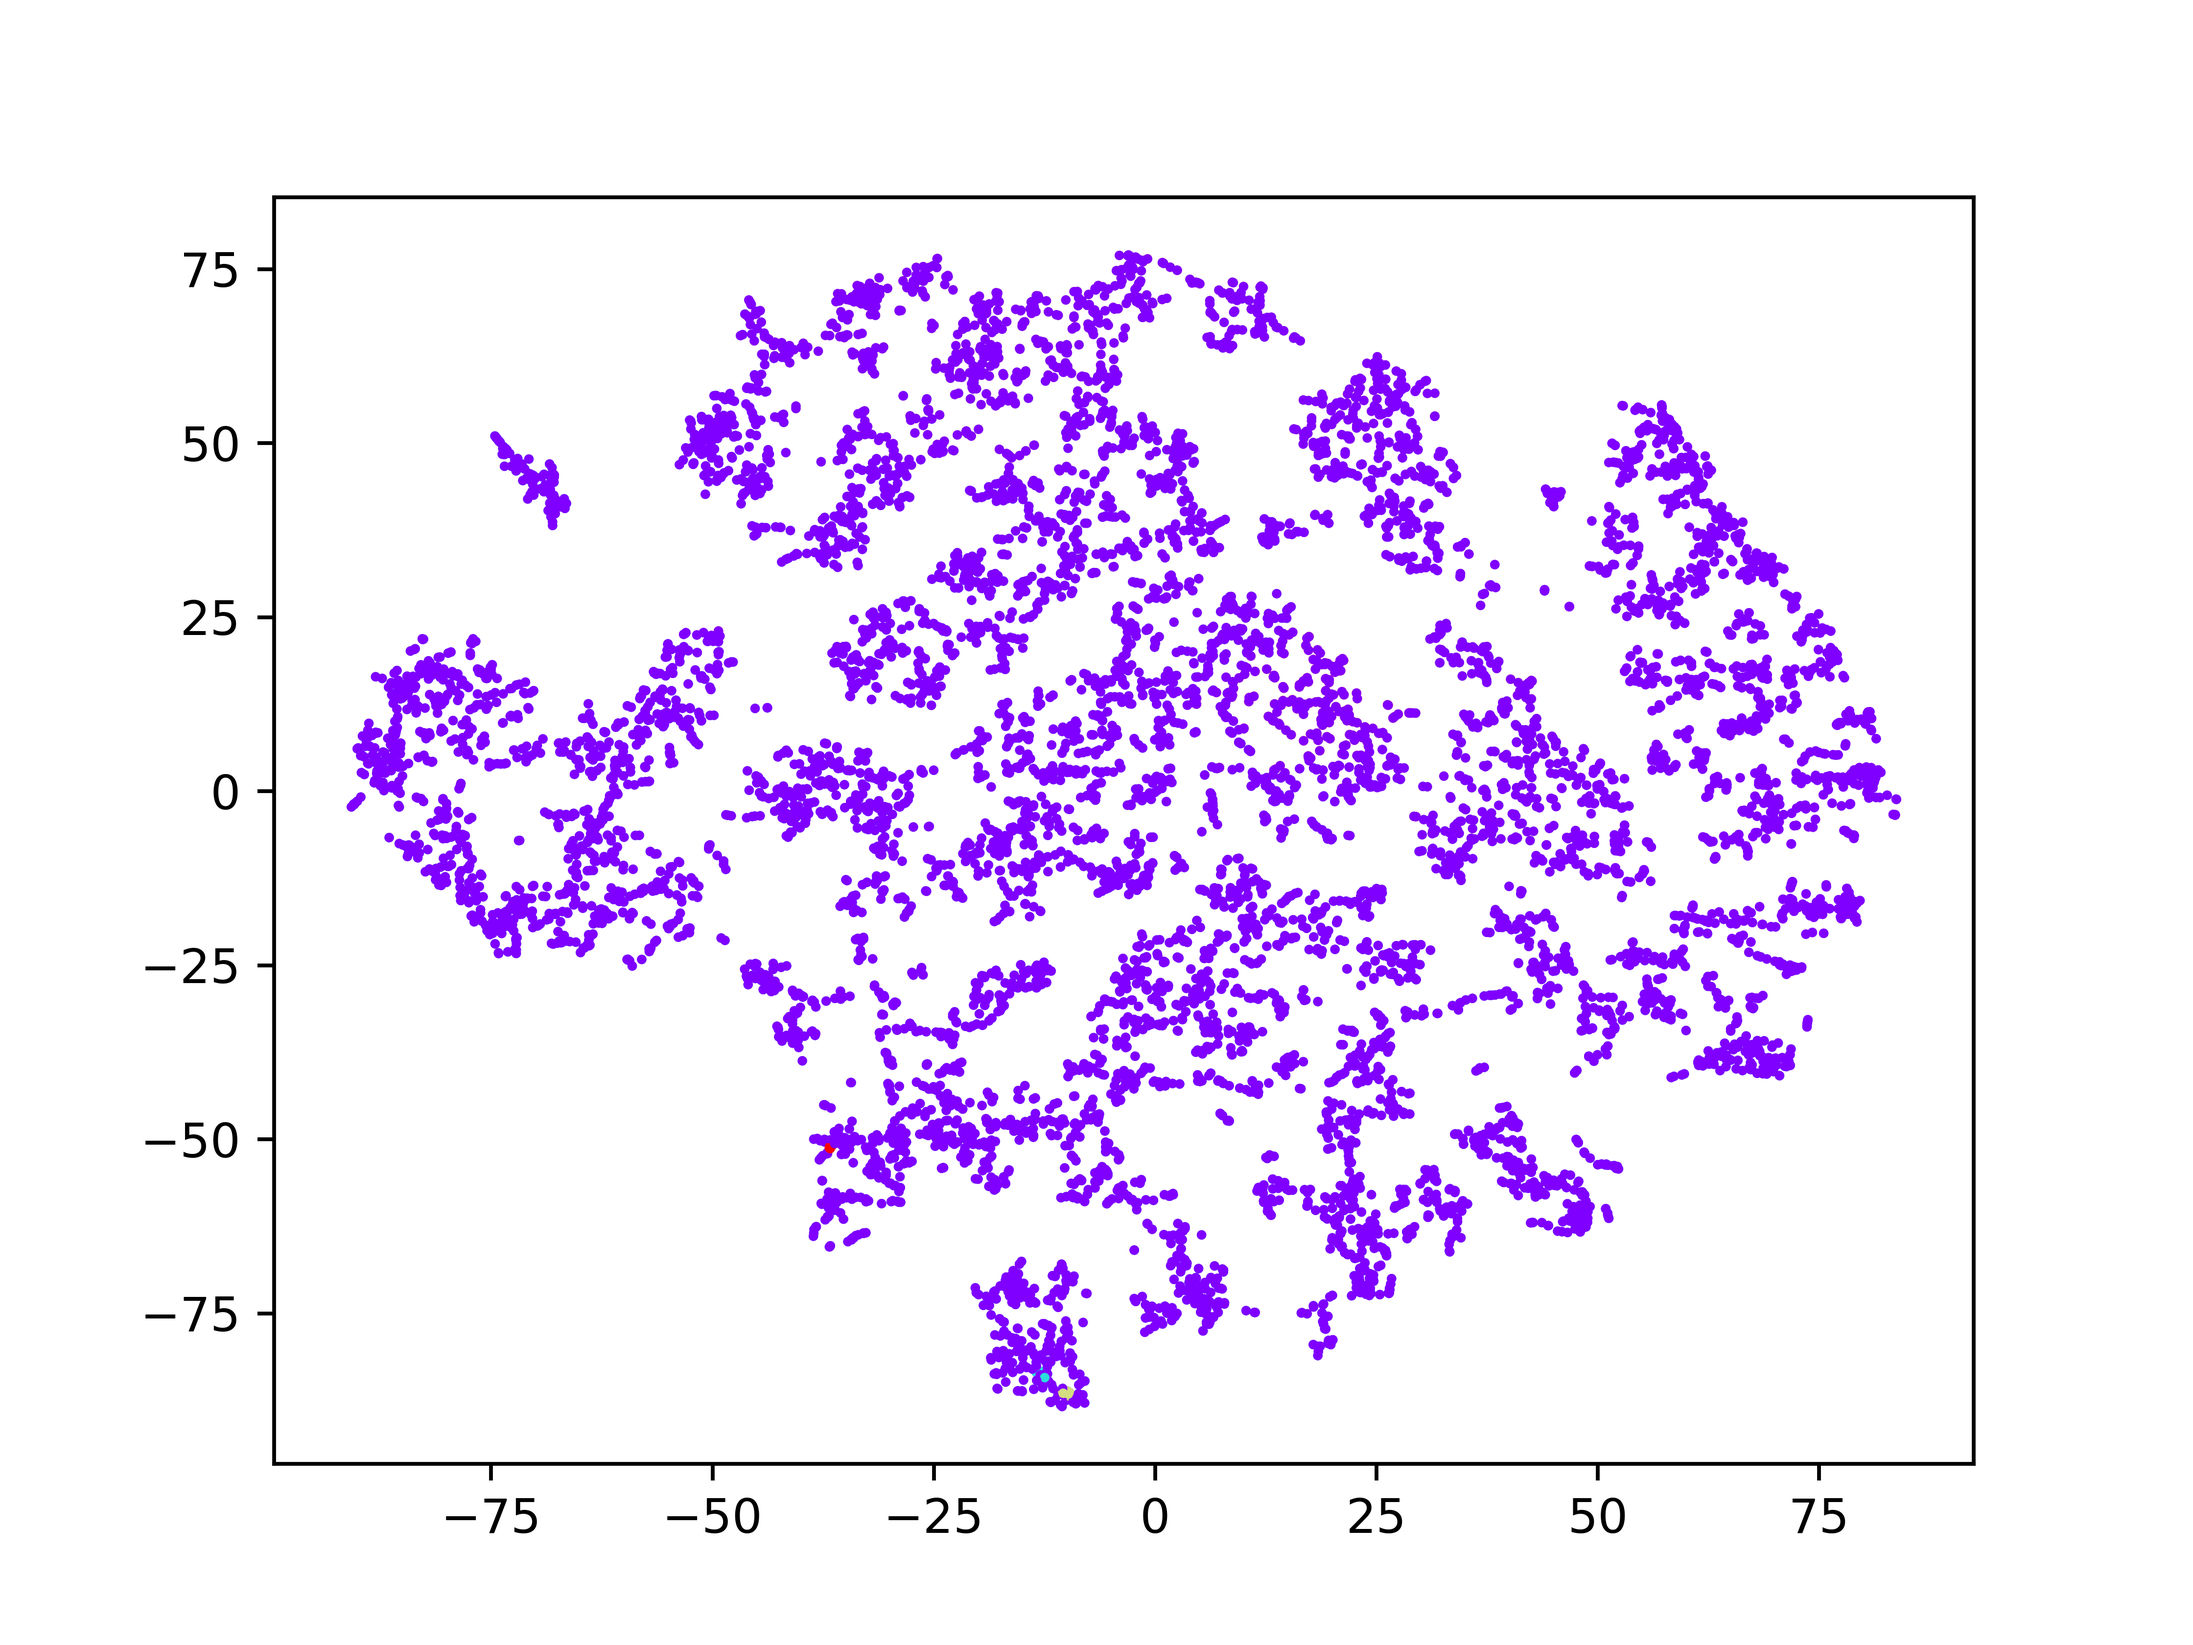
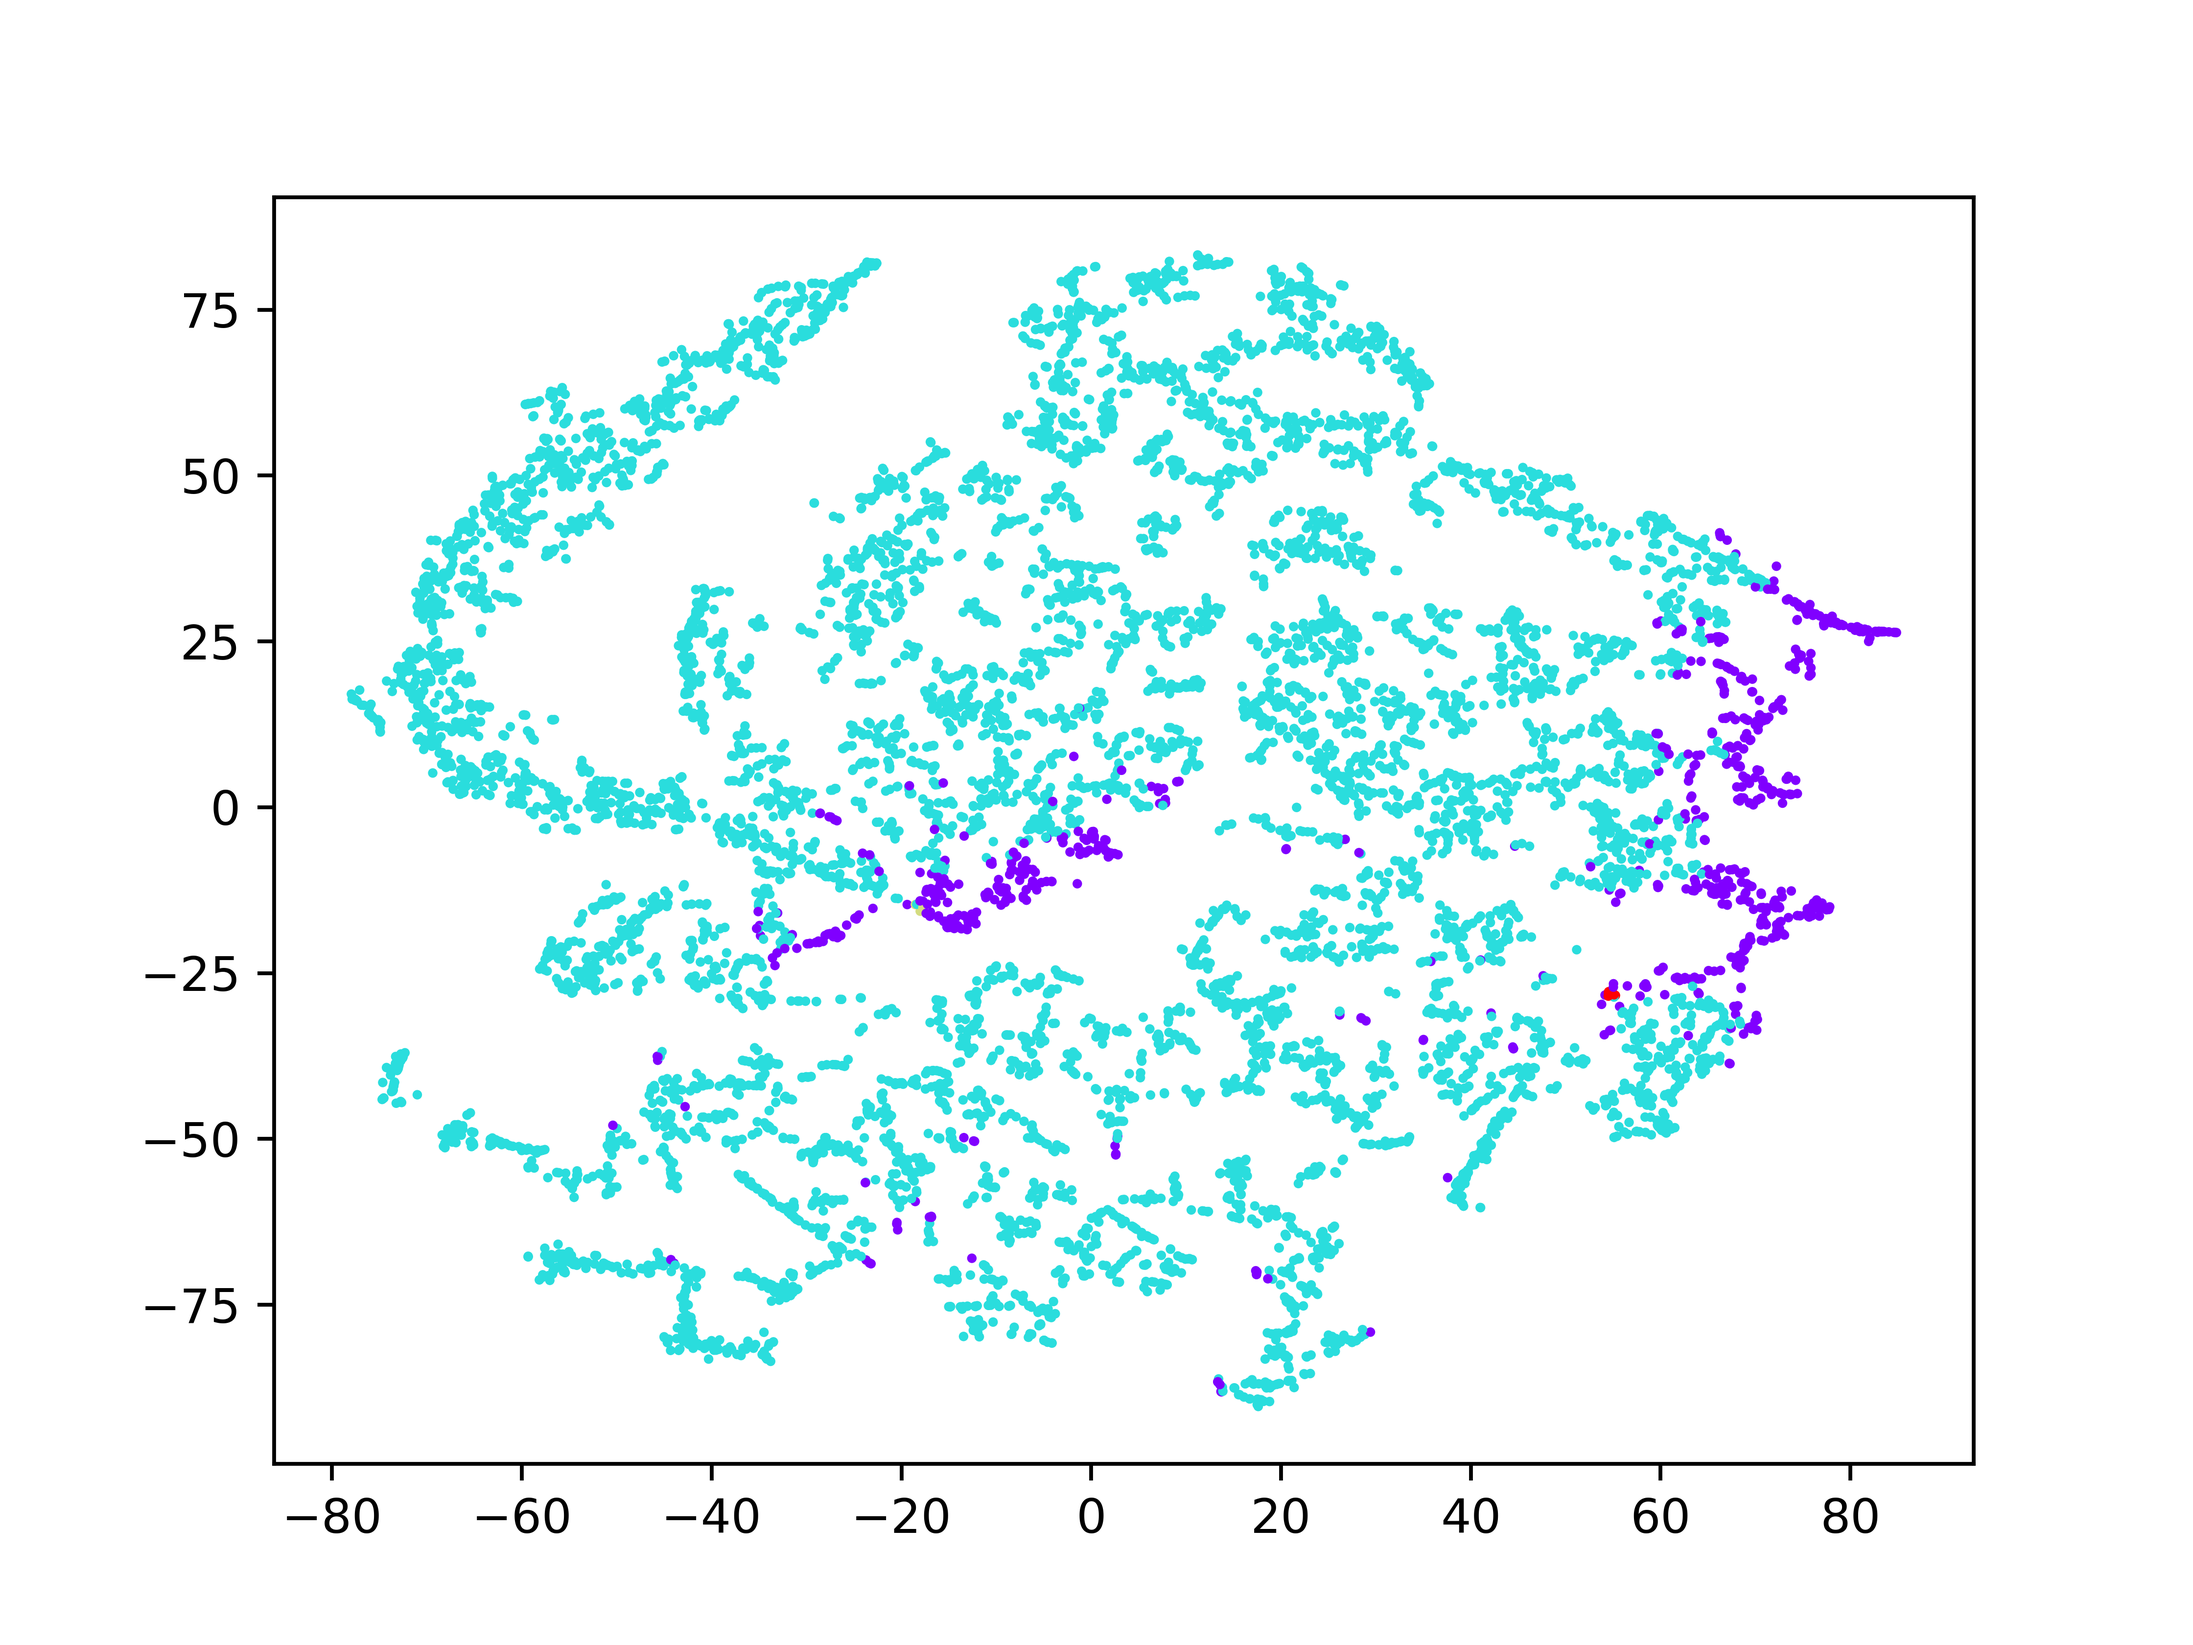
[add] DBSCAN

diff --git a/clustering/density_based_methods.py b/clustering/density_based_methods.py
@@ -1,11 +1,85 @@
 from sklearn.cluster import DBSCAN
 from sklearn.cluster import OPTICS
-
+import math
+import matplotlib.pyplot as plt
+from scipy.spatial import KDTree
+import random
+import numpy as np
 def dbscan_clustering(data):
-    dbscan = DBSCAN(eps=0.01)
+    dbscan = DBSCAN(eps=2.0)
     label = dbscan.fit_predict(data)
     return label
 
 def optics_clustering(data):
     optics = OPTICS()
     return optics.fit_predict(data)
+
+
+def dist(a, b):
+    len_a = len(a)
+    ans = 0
+    for i in range(len_a):
+        ans = ans + (a[i] - b[i]) * (a[i] - b[i])
+    return math.sqrt(ans)
+
+def getCore(dataset , eps , min_samples):
+    core = {}
+    KdTree = KDTree(dataset)
+    len_d = len(dataset)
+    for i in range(len_d):
+        temp = np.sum((dataset - dataset[i]) ** 2, axis=1) ** 0.5
+        neibor = np.argwhere(temp <= eps).flatten().tolist()
+        #neibor = KdTree.query_ball_point(dataset[i],eps)
+        if len(neibor) > min_samples :
+            core[i] = neibor
+    return core
+
+def dbscan(dataset,eps = 2.0,min_samples = 30):
+    len_d = len(dataset)
+    '''
+    dis_k = []
+
+    for idx1 in range(len_d):
+        dis = []
+        for idx2 in range(len_d):
+            dis.append(dist(dataset[idx1],dataset[idx2]))
+        dis = sorted(dis)
+        dis_k.append(dis[4])
+    dis_k = sorted(dis_k)
+    x1 = [i for i in range(len_d)]
+    plt.plot(x1, dis_k, label='Frist line', linewidth=3, color='r', marker='o',markerfacecolor='blue', markersize=12)
+    plt.xlabel('Plot Number')
+    plt.ylabel('distance')
+    plt.title('Eps Selection')
+    plt.legend()
+    plt.show()
+    '''
+    unvisited = [0 for i in range(len_d)]
+    core_neiborhood = getCore(dataset , eps ,min_samples)
+    #print(core_neiborhood)
+    cluster = [-1 for i in range(len_d)] #记录结果
+    cluster_id = 0
+    for core_id,neibor in core_neiborhood.items(): #遍历核心点
+        if unvisited[core_id] == 1: #如果已经访问过
+            continue
+        new_cluster = [core_id]
+        core_queue = [core_id]
+        unvisited[core_id] = 1
+        while len(core_queue): #对核心点进行bfs
+            x = core_queue.pop()
+            neibor = core_neiborhood[x]
+            for n_id in neibor: #核心点邻域
+                if unvisited[n_id] == 0: #如果发现没访问过
+                    unvisited[n_id] = 1
+                    new_cluster.append(n_id)
+                    if n_id in core_neiborhood : #如果发现邻域内核心点
+                        core_queue.append(n_id)
+        for kk in new_cluster:
+            cluster[kk] = cluster_id
+        cluster_id = cluster_id + 1
+
+    #print(cluster)
+    print(cluster_id)
+    return cluster
+
+

diff --git a/clustering/hierarchical_based_methods.py b/clustering/hierarchical_based_methods.py
@@ -1,5 +1,70 @@
 from sklearn.cluster import AgglomerativeClustering
+import math
 
 def agglomerative_clustering(data):
     cluster = AgglomerativeClustering(n_clusters=5)
     return cluster.fit_predict(data)
+
+def dist(a, b):
+    len_a = len(a)
+    ans = 0
+    for i in range(len_a):
+        ans = ans + (a[0] - b[0]) * (a[0] - b[0])
+    return math.sqrt(ans)
+
+def find_Min(M):
+    min = 1000
+    x = 0; y = 0
+    for i in range(len(M)):
+        for j in range(len(M[i])):
+            if i != j and M[i][j] < min:
+                min = M[i][j];x = i; y = j
+    return (x, y, min)
+
+#dist_min
+def dist_min(Ci, Cj):
+    return min(dist(i, j) for i in Ci for j in Cj)
+
+def dist_max(Ci, Cj):
+    return max(dist(i, j) for i in Ci for j in Cj)
+
+def dist_avg(Ci, Cj):
+    return sum(dist(i, j) for i in Ci for j in Cj)/(len(Ci)*len(Cj))
+
+def AGNES(dataset, k=5):
+    #初始化C和M
+    dist_tmp = dist_min
+    C = [];M = []
+    for idx,i in enumerate(dataset):
+        Ci = []
+        Ci.append(idx)
+        C.append(Ci)
+    for i in C:
+        Mi = []
+        for j in C:
+            Mi.append(dist_tmp(dataset[i], dataset[j]))
+        M.append(Mi)
+    q = len(dataset)
+    len_d = q
+    #合并更新
+    while q > k:
+        x, y, min = find_Min(M)
+        C[x].extend(C[y])
+        C = C[:y] + C[y+1:]
+        #C.remove(C[y])
+        M = []
+        for i in C:
+            Mi = []
+            for j in C:
+                Mi.append(dist_tmp(dataset[i], dataset[j]))
+            M.append(Mi)
+        q -= 1
+    c_id = 0
+    clus = [0 for i in range(len_d)]
+    for k in C:
+        for kk in k:
+            #print(kk)
+            clus[kk] = c_id
+        c_id = c_id + 1
+    #print(clus)
+    return clus
